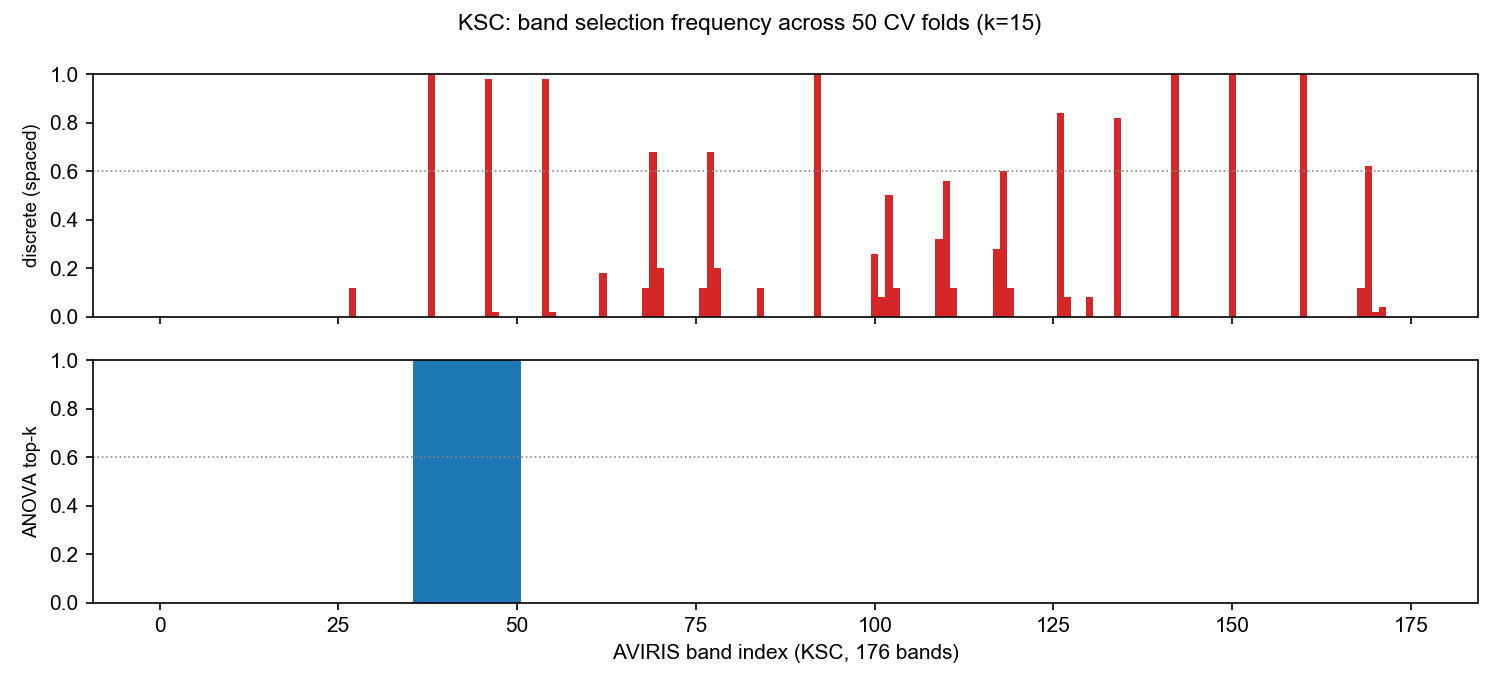
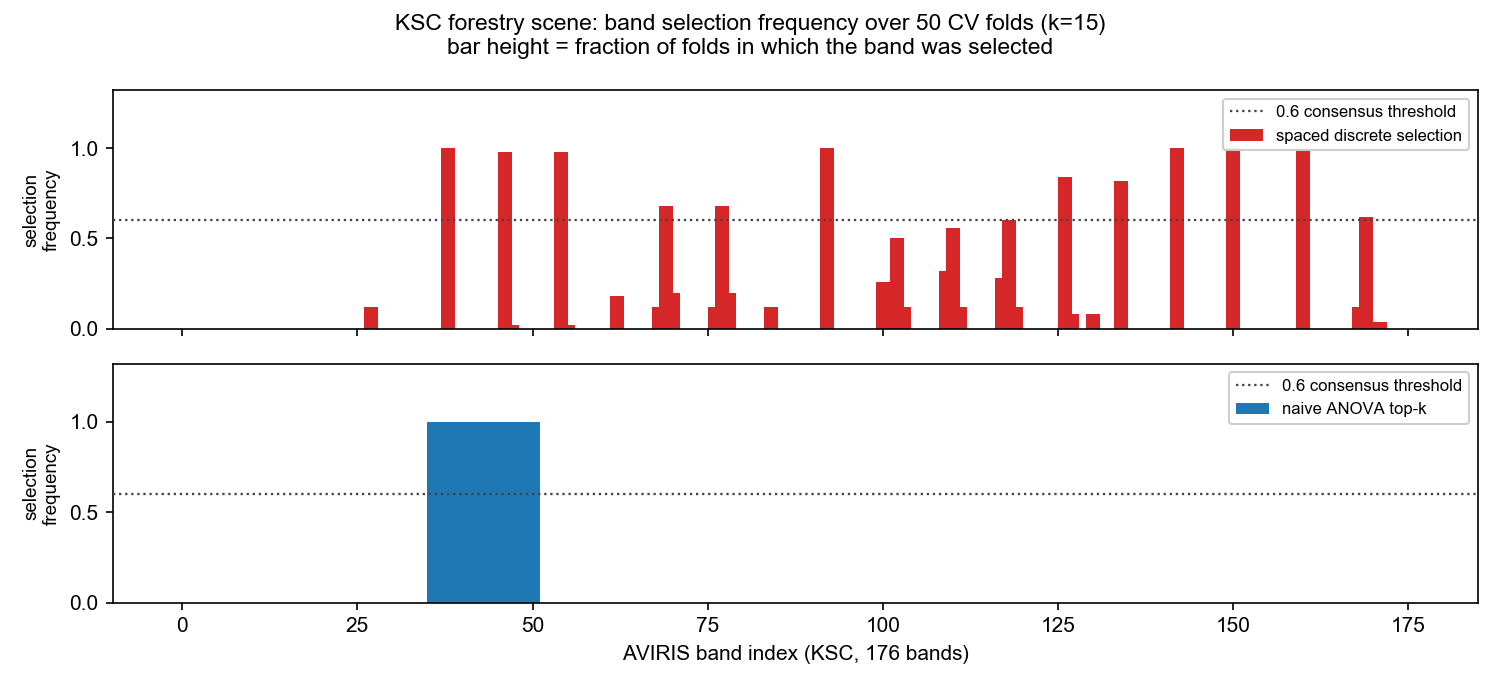
Stability charts: legend headroom, threshold line drawn over bars

diff --git a/benchmarks/run_stability.py b/benchmarks/run_stability.py
@@ -79,14 +79,19 @@ def part_ksc():
     fig, axes = plt.subplots(2, 1, figsize=(10, 4.6), sharex=True)
     for ax, (rep, label, color) in zip(
         axes,
-        [(rep_disc, "discrete (spaced)", "#d62728"), (rep_anova, "ANOVA top-k", "#1f77b4")],
+        [(rep_disc, "spaced discrete selection", "#d62728"), (rep_anova, "naive ANOVA top-k", "#1f77b4")],
     ):
-        ax.bar(np.arange(X.shape[1]), rep["frequency"], width=1.0, color=color)
-        ax.set_ylabel(label, fontsize=9)
-        ax.set_ylim(0, 1)
-        ax.axhline(0.6, color="#888888", ls=":", lw=0.8)
+        ax.bar(np.arange(X.shape[1]), rep["frequency"], width=2.0, color=color, label=label)
+        ax.axhline(0.6, color="#444444", ls=":", lw=1.1, label="0.6 consensus threshold", zorder=5)
+        ax.set_ylabel("selection\nfrequency", fontsize=9)
+        ax.set_ylim(0, 1.32)
+        ax.legend(fontsize=8, loc="upper right", framealpha=0.95)
     axes[1].set_xlabel("AVIRIS band index (KSC, 176 bands)")
-    fig.suptitle("KSC: band selection frequency across 50 CV folds (k=15)", fontsize=11)
+    fig.suptitle(
+        "KSC forestry scene: band selection frequency over 50 CV folds (k=15)\n"
+        "bar height = fraction of folds in which the band was selected",
+        fontsize=11,
+    )
     fig.tight_layout()
     fig.savefig(REPORTS / "ksc_stability_heatmap.png", dpi=150)
     plt.close(fig)
@@ -147,14 +152,19 @@ def part_tecator():
     fig, axes = plt.subplots(2, 1, figsize=(10, 5.0), sharex=True)
     for ax, (rep, label, color) in zip(
         axes,
-        [(rep_disc, "discrete-8 (spaced)", "#d62728"), (rep_vip, "VIP top-8", "#1f77b4")],
+        [(rep_disc, "spaced discrete-8", "#d62728"), (rep_vip, "VIP top-8", "#1f77b4")],
     ):
-        ax.bar(np.arange(X.shape[1]), rep["frequency"], width=1.0, color=color)
-        ax.set_ylabel(label, fontsize=9)
-        ax.set_ylim(0, 1)
-        ax.axhline(0.6, color="#888888", ls=":", lw=0.8)
+        ax.bar(np.arange(X.shape[1]), rep["frequency"], width=2.0, color=color, label=label)
+        ax.axhline(0.6, color="#444444", ls=":", lw=1.1, label="0.6 consensus threshold", zorder=5)
+        ax.set_ylabel("selection\nfrequency", fontsize=9)
+        ax.set_ylim(0, 1.32)
+        ax.legend(fontsize=8, loc="upper right", framealpha=0.95)
     axes[1].set_xlabel("Tecator band index (100 NIR channels, 850-1048 nm)")
-    fig.suptitle("Tecator: selection frequency across 50 CV folds (k=8)", fontsize=11)
+    fig.suptitle(
+        "Tecator: band selection frequency over 50 CV folds (k=8)\n"
+        "bar height = fraction of folds in which the band was selected",
+        fontsize=11,
+    )
     fig.tight_layout()
     fig.savefig(REPORTS / "tecator_stability_heatmap.png", dpi=150)
     plt.close(fig)
